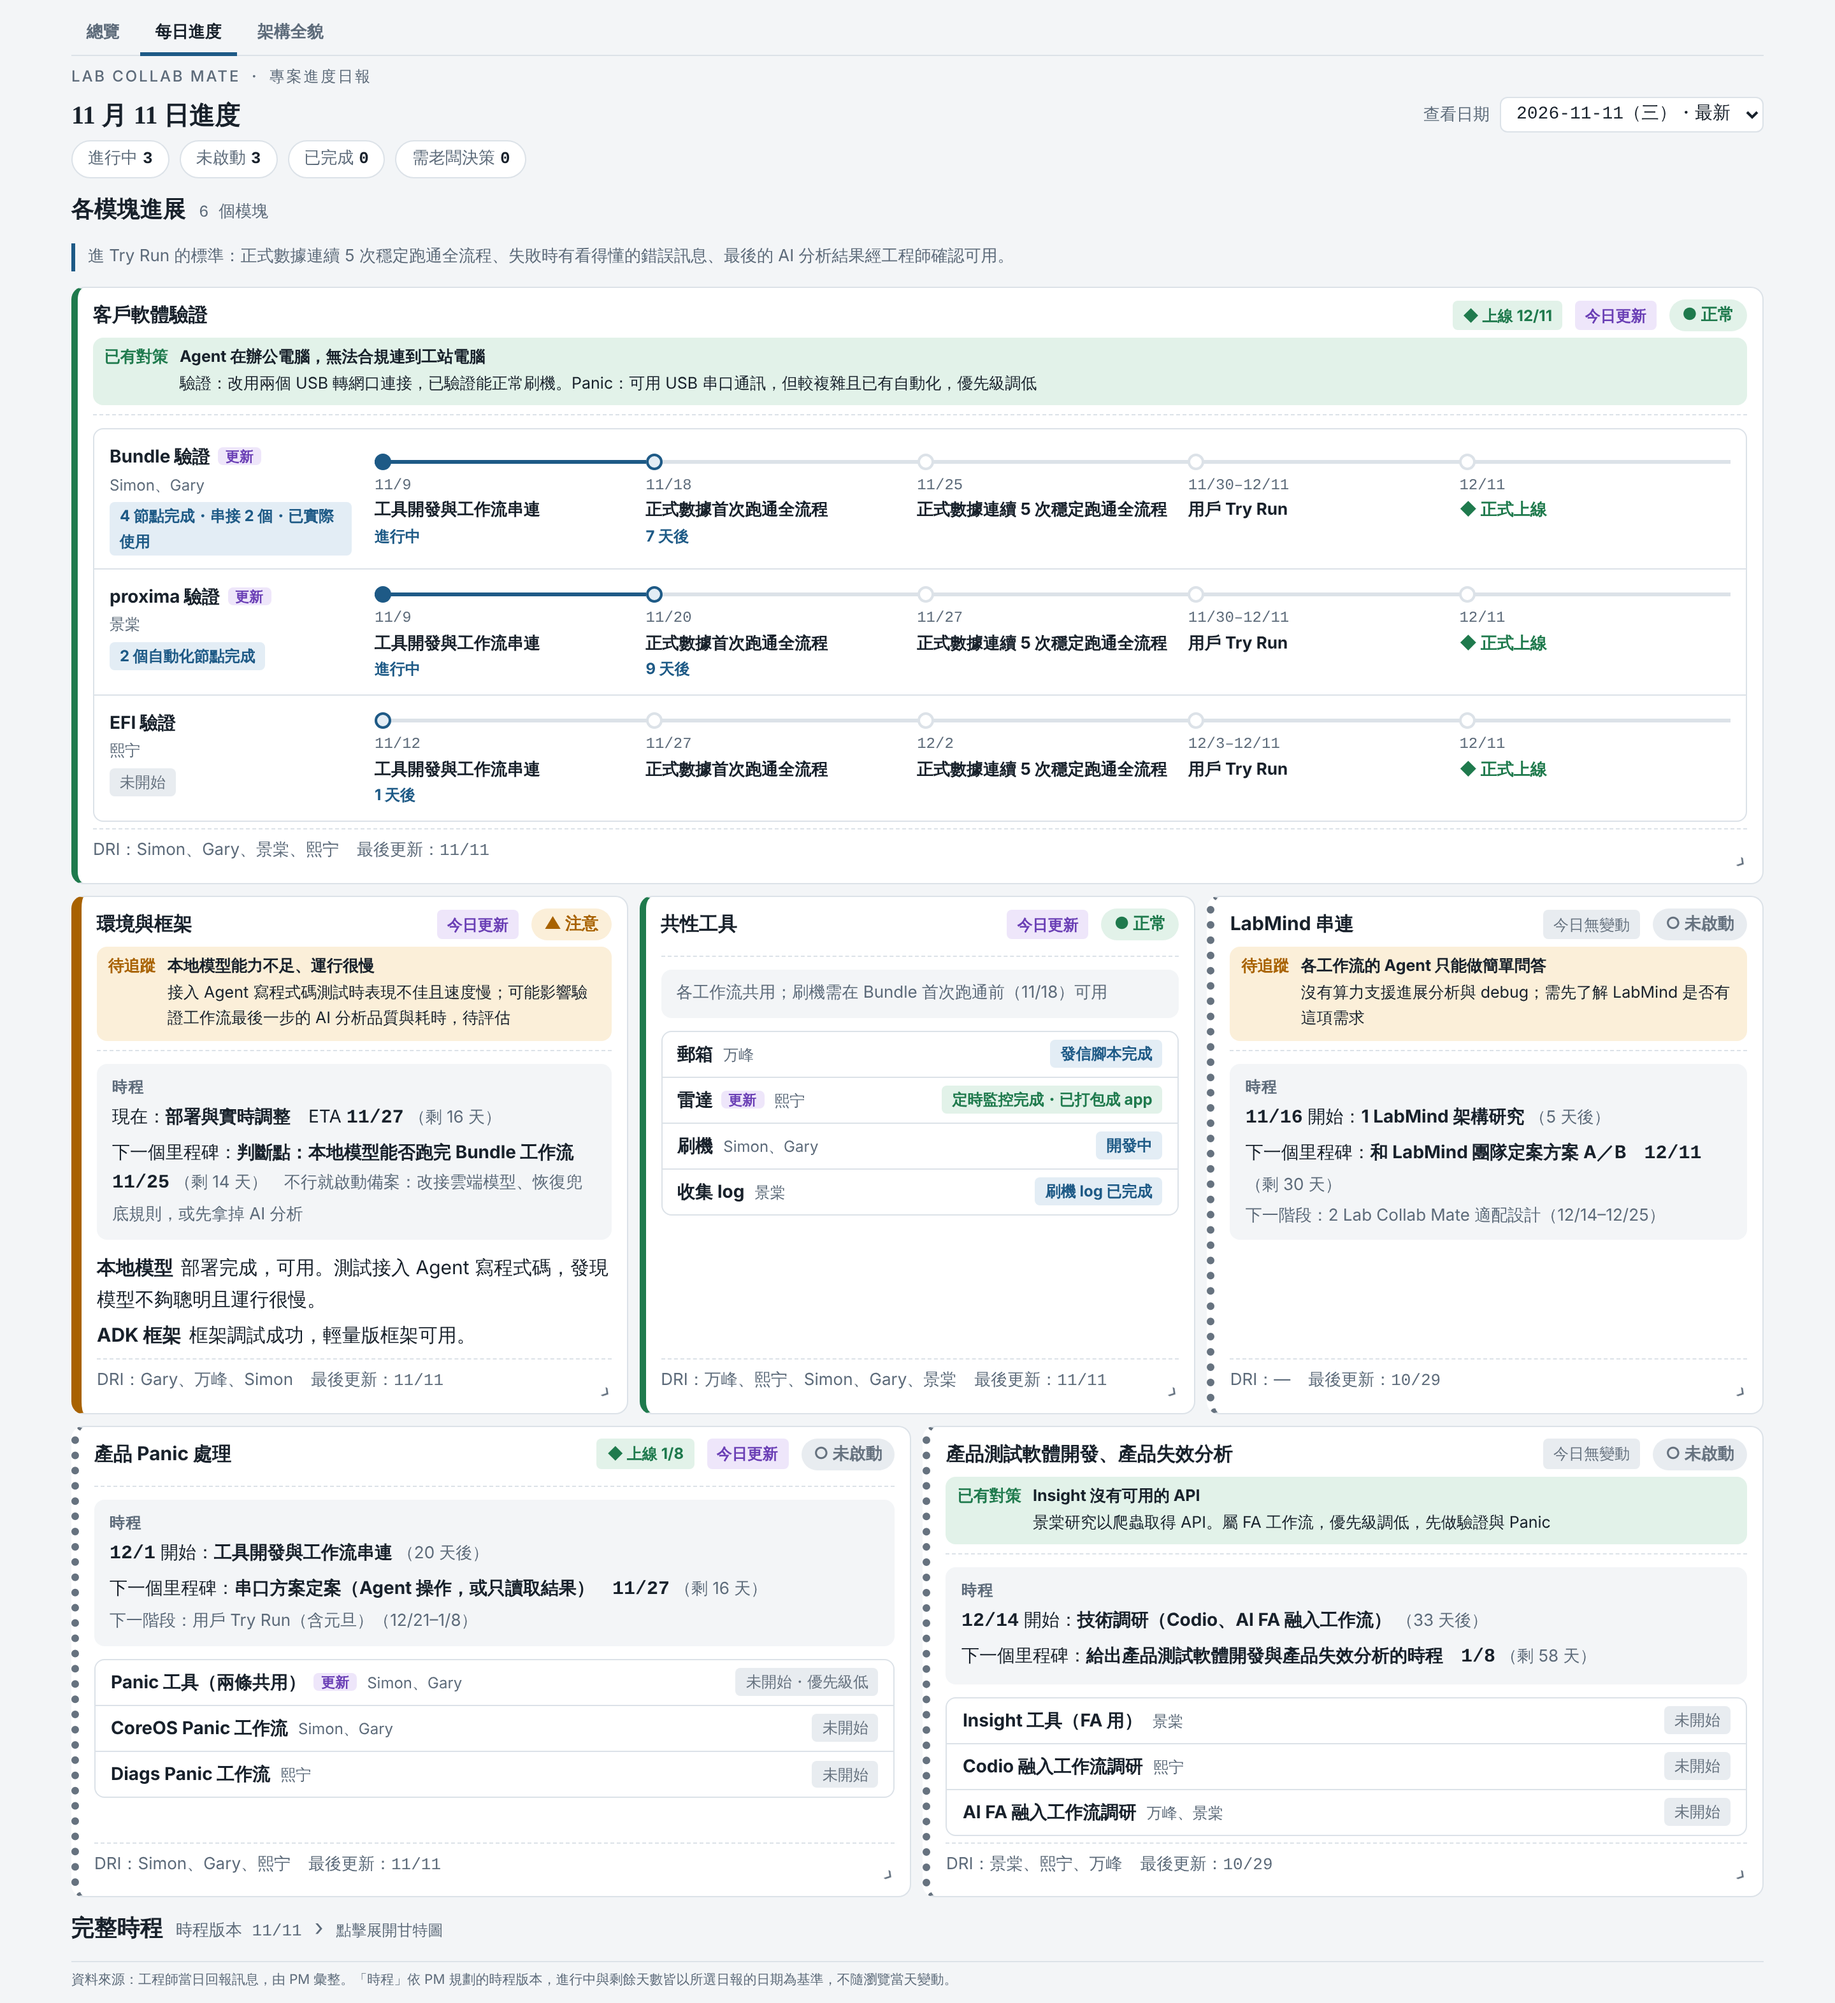
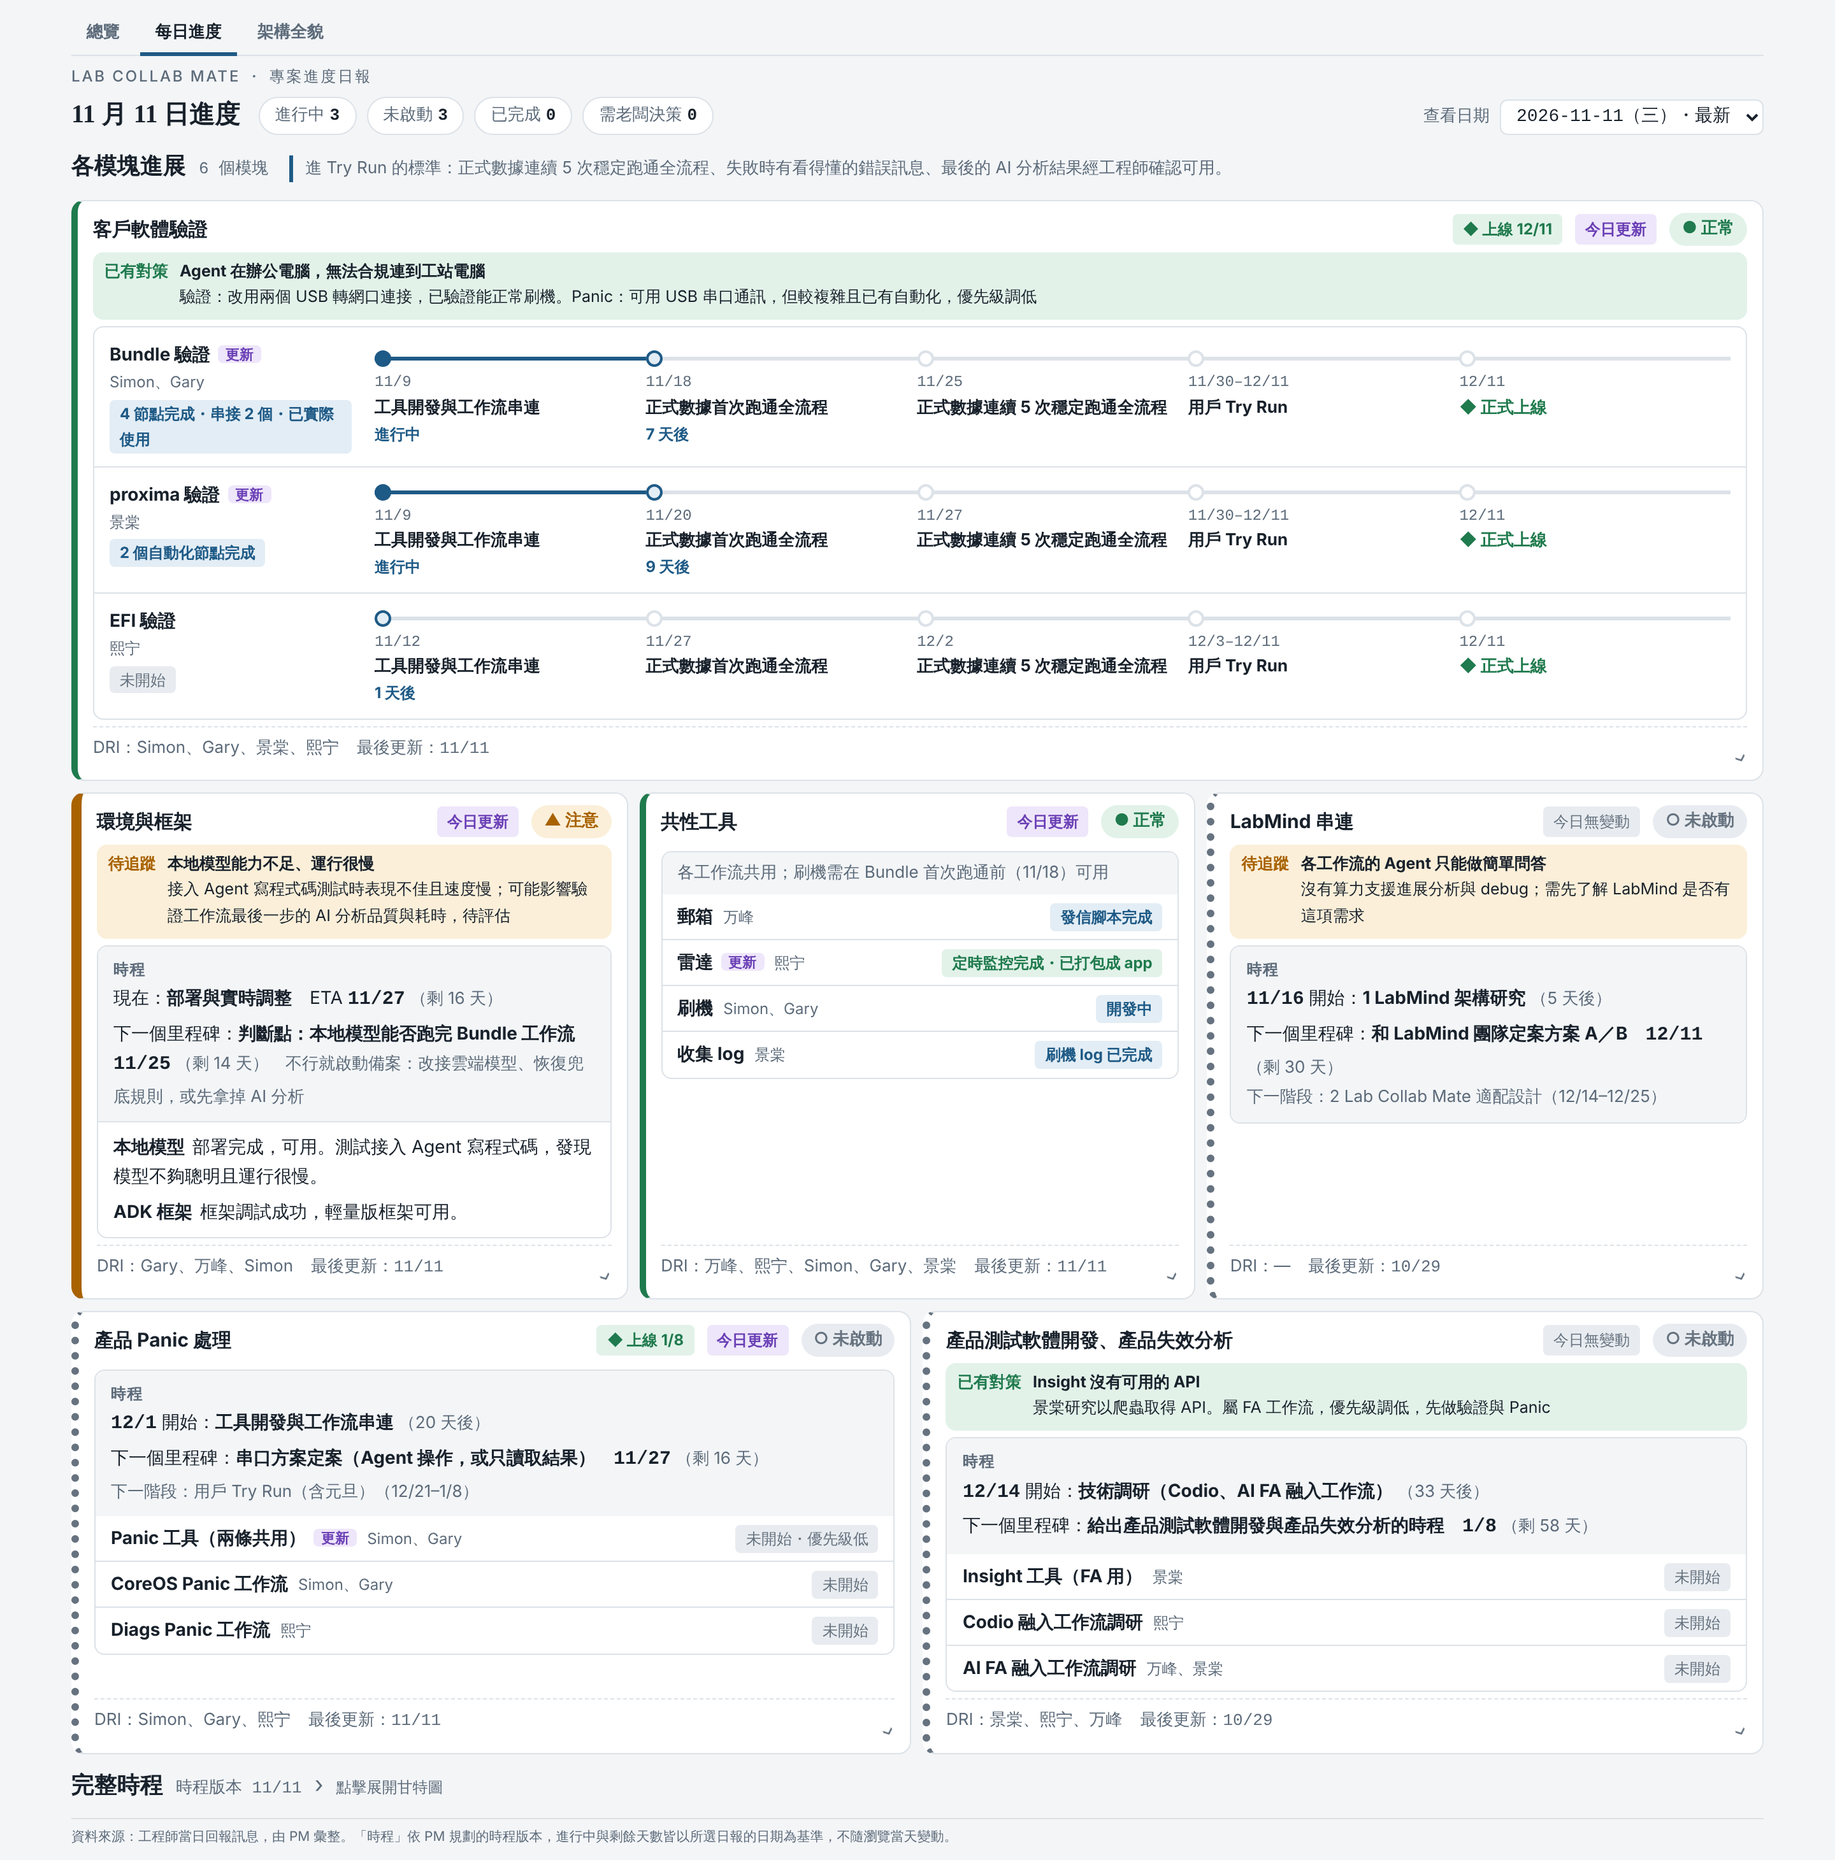
[2026-11-17_overview-redesign] 日報頁合併區塊：頁首統計併入標題列、卡片內容合成一框
Claude-Session: https://claude.ai/code/session_01Cd6Gft6mTX8zcMZinAmXya

diff --git a/public/daily.html b/public/daily.html
@@ -300,6 +300,19 @@ footer{font-size:12px;color:var(--muted);border-top:1px solid var(--line);paddin
 @media (max-width:900px){.card .sum .ssum{display:none}}
 /* 工具／項目列壓成一行：名稱・負責人・狀態 */
 .mrow.two{padding:6px 12px}
+/* 頁首：標題與統計同列；區段標題與 Try Run 標準同列 */
+.ttl{display:flex;align-items:center;gap:8px 14px;flex-wrap:wrap}
+.shd{display:flex;align-items:baseline;gap:6px 16px;flex-wrap:wrap}
+/* 卡片內容合成一個區塊：時程／回報原話／下一步／說明／項目列，以分隔線區分 */
+.blk{border:1px solid var(--line);border-radius:8px;overflow:hidden;background:var(--surface)}
+.blk > *{border-radius:0;margin:0}
+.blk > * + *{border-top:1px solid var(--line)}
+.blk > .prog{padding:8px 12px;max-width:none;font-size:14px}
+.blk > .kv{padding:6px 12px}
+.blk > .note{padding:6px 12px;font-size:13px;color:var(--muted);background:var(--bg)}
+.blk > .mrows{border:0}
+/* 展開時不再需要「摘要／明細」分界虛線 */
+.card[aria-expanded="true"] .cbody{border-top:0;padding-top:0;margin-top:0}
 /* 展開時風險／對策說明不截斷（完整版） */
 .card[aria-expanded="true"] .sum .issue .ask{display:block;-webkit-line-clamp:unset;overflow:visible}
 .mrow.two .nm small{display:inline;margin-left:8px}
@@ -346,15 +359,14 @@ footer{font-size:12px;color:var(--muted);border-top:1px solid var(--line);paddin
     <nav class="tabs" aria-label="頁面"><a href="./">總覽</a><a href="daily.html" aria-current="page">每日進度</a><a href="arch.html">架構全貌</a></nav>
     <div class="eyebrow">LAB COLLAB MATE ・ 專案進度日報</div>
     <div class="top">
-      <h1 id="h1">每日進度</h1>
+      <div class="ttl"><h1 id="h1">每日進度</h1><div class="tally" id="tally"></div></div>
       <label class="pick"><span>查看日期</span><select id="date"></select></label>
     </div>
-    <div class="tally" id="tally"></div>
   </header>
 
   <section aria-labelledby="s1">
-    <h2 id="s1">各模塊進展 <span class="count" id="c1"></span></h2>
-    <p class="rule" id="rule"></p>
+    <div class="shd"><h2 id="s1">各模塊進展 <span class="count" id="c1"></span></h2>
+    <p class="rule" id="rule"></p></div>
     <div class="mods" id="mods"></div>
   </section>
 
@@ -654,14 +666,14 @@ function render(){
         ${x.issues.map(issueHTML).join("")}
       </div>
       <span class="chev" aria-hidden="true">›</span>
-      <div class="cbody">
+      <div class="cbody">${(b => b.trim() ? `<div class="blk">${b}</div>` : "")(`
       ${M.track ? schedHTML(TRACK(M.track)) : ""}
-      ${I && x.lines.length ? `<div class="prog">${x.lines.filter(l => l.text).map(l => `<div>${x.lines.length > 1 ? `<b>${esc(l.label)}</b>` : ""}${esc(l.text)}</div>`).join("")}</div>` : ""}
+      ${I && x.lines.some(l => l.text) ? `<div class="prog">${x.lines.filter(l => l.text).map(l => `<div>${x.lines.length > 1 ? `<b>${esc(l.label)}</b>` : ""}${esc(l.text)}</div>`).join("")}</div>` : ""}
       ${x.lines.filter(l => l.next).map(l => `<dl class="kv"><dt>下一步</dt><dd>${esc(l.next)}</dd></dl>`).join("")}
-      ${M.note ? `<div class="sched"><span class="dim">${esc(M.note)}</span></div>` : ""}
+      ${M.note ? `<div class="note">${esc(M.note)}</div>` : ""}
       ${x.rows.length ? `<div class="mrows">${x.rows.map(s => `<div class="mrow${s.track ? "" : " two"}">
           <span class="nm">${esc(s.label || s.item)}${rowChanged(s) ? `<i>更新</i>` : ""}<small>${esc(s.owner)}</small></span>
-          <span class="st ${s.k}">${esc(s.lab)}</span>${s.track ? rowSteps(TRACK(s.track)) : ""}</div>`).join("")}</div>` : ""}
+          <span class="st ${s.k}">${esc(s.lab)}</span>${s.track ? rowSteps(TRACK(s.track)) : ""}</div>`).join("")}</div>` : ""}`)}
       </div>
       <div class="meta"><span>DRI：${esc(x.owners || "—")}</span><span>最後更新：<span class="mono">${md(x.last)}</span></span></div>
     </article>`;
